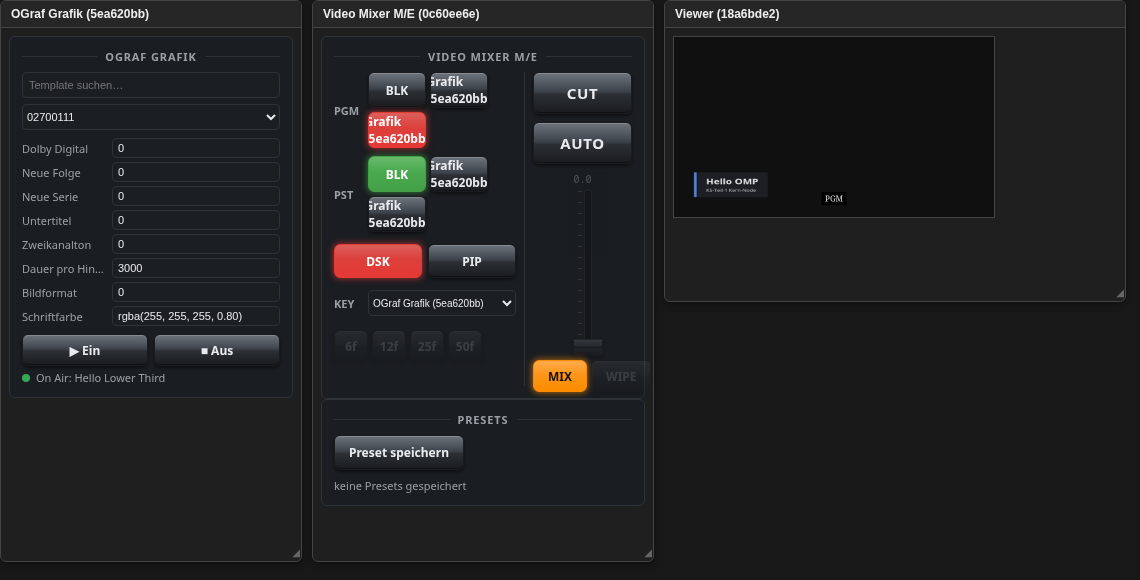
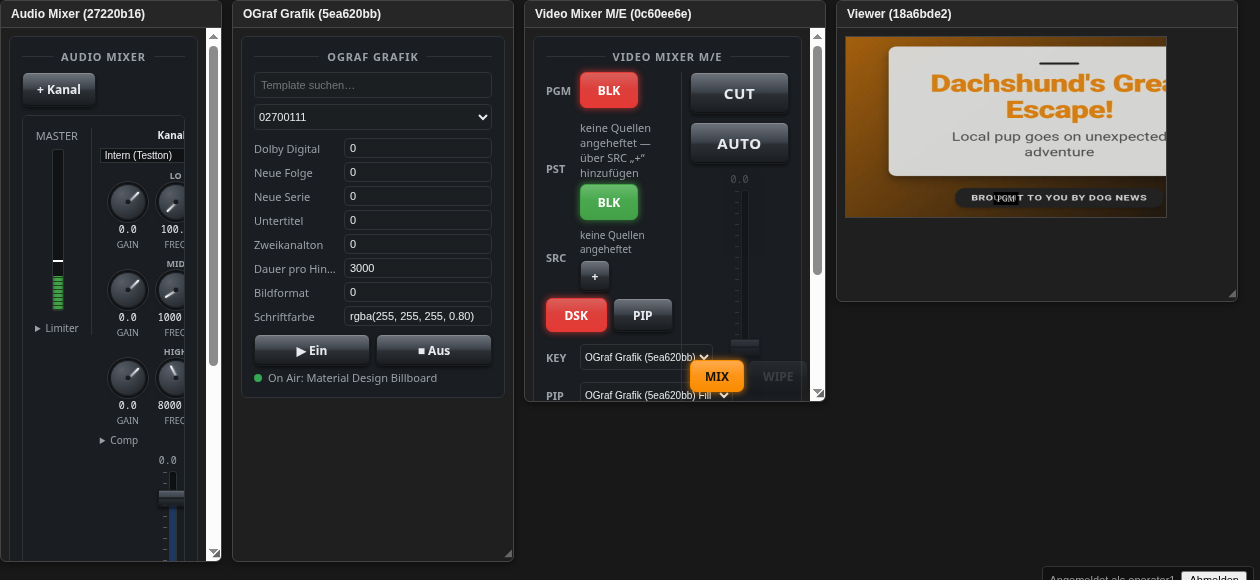
Benutzerhandbuch: Operator-Konsole-Screenshot mit Audio Mixer aktualisiert
Vierte Rolle (Audio Mixer) im Demo-Workflow ergänzt; Screenshot und
Beschreibungstext zeigen jetzt alle vier Kacheln inkl. der neuen
kuratierten Kreuzschiene und des PIP-Layers am Video Mixer M/E.

diff --git a/docs/BENUTZERHANDBUCH.md b/docs/BENUTZERHANDBUCH.md
@@ -152,21 +152,25 @@ zeigt die Konsole alle zugewiesenen Node-Oberflächen gleichzeitig als
 frei verschieb- und skalierbare Kacheln (bei genau einer Rolle erscheint
 stattdessen deren Oberfläche vollflächig, ohne Kachel-Rahmen):
 
-![Operator-Konsole mit OGraf, Video Mixer M/E und Viewer](screenshots/operator-konsole.png)
+![Operator-Konsole mit Audio Mixer, OGraf, Video Mixer M/E und Viewer](screenshots/operator-konsole.png)
 
-In diesem Beispiel sind einem Operator drei Rollen desselben Workflows
+In diesem Beispiel sind einem Operator vier Rollen desselben Workflows
 zugewiesen:
 
-- **OGraf Grafik** (links) — Grafik-Vorlage auswählen, Formularfelder
-  befüllen, „▶ Ein"/„■ Aus" schaltet die Grafik auf Sendung (im
-  Screenshot bereits aktiv: „On Air: Hello Lower Third").
-- **Video Mixer M/E** (Mitte) — echtes Bildmischer-Bedienpult:
-  PGM-/PST-Kreuzschienen-Tasten (nach Workflow-Zugehörigkeit gruppiert,
-  sobald mehrere Workflows gemeinsam Quellen anbieten), CUT/AUTO für
-  harte bzw. weiche Umschaltung, DSK (Downstream-Keyer, hier aktiv/rot,
-  mit wählbarer Fill+Key-Quelle über das KEY-Dropdown) und PIP
-  (Bild-im-Bild).
-- **Viewer** (rechts) — zeigt das tatsächliche PGM-Ausgangsbild des
+- **Audio Mixer** (ganz links) — Kanalzüge mit Gain/EQ (LO/MID/HIGH),
+  Kompressor und Master-Limiter; „+ Kanal" legt einen neuen Eingang an.
+- **OGraf Grafik** — Grafik-Vorlage auswählen, Formularfelder befüllen,
+  „▶ Ein"/„■ Aus" schaltet die Grafik auf Sendung (im Screenshot bereits
+  aktiv: „On Air: Material Design Billboard").
+- **Video Mixer M/E** — echtes Bildmischer-Bedienpult: PGM-/PST-
+  Kreuzschienen-Tasten (nach Workflow-Zugehörigkeit gruppiert, sobald
+  mehrere Workflows gemeinsam Quellen anbieten; per SRC-„+"-Taste
+  kuratiert angepinnt statt automatisch aufgelistet), CUT/AUTO für harte
+  bzw. weiche Umschaltung, DSK (Downstream-Keyer, hier aktiv/rot, mit
+  wählbarer Fill+Key-Quelle über das KEY-Dropdown) und PIP
+  (Bild-im-Bild als eigener, frei mit Quelle und Position/Größe
+  einstellbarer Bildlayer, PIP-Dropdown daneben).
+- **Viewer** (ganz rechts) — zeigt das tatsächliche PGM-Ausgangsbild des
   Mixers als Live-Vorschau; im Screenshot ist die soeben aufgeschaltete
   OGraf-Grafik über dem Programmbild sichtbar.
 